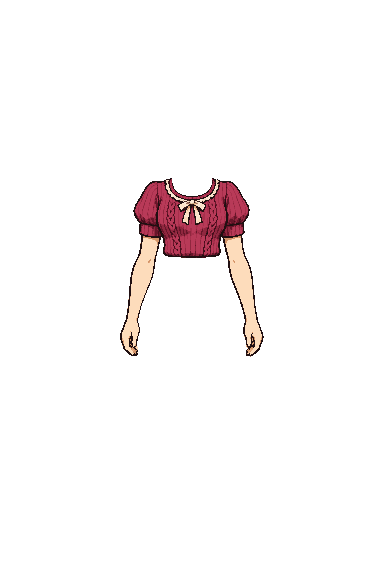
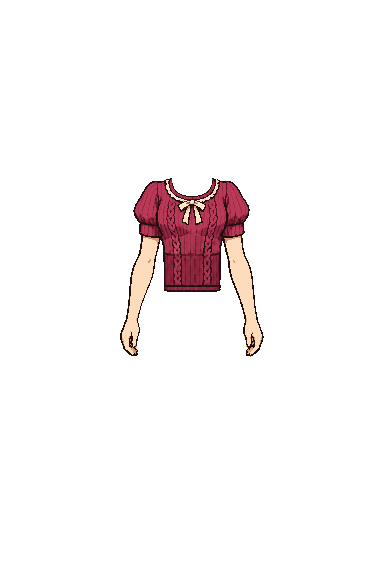
6番のニットを外に出せる長さに（中に入れる／外に出すで変わる、上だけでもおなかが出ない）（v0.10.185）

Changed region(s): [[0.4062, 0.4062, 0.5938, 0.5312]]

diff --git a/app/sw.js b/app/sw.js
@@ -1,6 +1,6 @@
 // オフライン対応：アプリ本体と絵を端末に保存して、電波がなくても開けるようにする
 // 版を上げるときは VERSION を変える（古い保存は消える）
-const VERSION = 'tabiquest-v0.10.184';
+const VERSION = 'tabiquest-v0.10.185';
 const CORE = [
   './', 'index.html', 'manifest.json', 'css/app.css', 'vendor/three.r128.min.js',
   'js/main.js', 'js/card.js', 'js/places.js', 'js/photo_places.js', 'js/plain_places.js', 'js/store.js', 'js/geo.js', 'js/conditions.js', 'js/ui.js', 'js/arrival.js', 'js/zukan.js', 'js/debug.js', 'js/mihon.js',

diff --git a/app/js/main.js b/app/js/main.js
@@ -50,7 +50,7 @@ import * as scramble from './scenes/scramble.js';
 import * as kamakura from './scenes/kamakura.js';
 import * as photo from './scenes/photo.js';
 
-export const VERSION = '0.10.184';
+export const VERSION = '0.10.185';
 engine.register('minatomirai', minatomirai.build);
 engine.register('chukagai', chukagai.build);
 engine.register('tokyotower', tokyotower.build);
